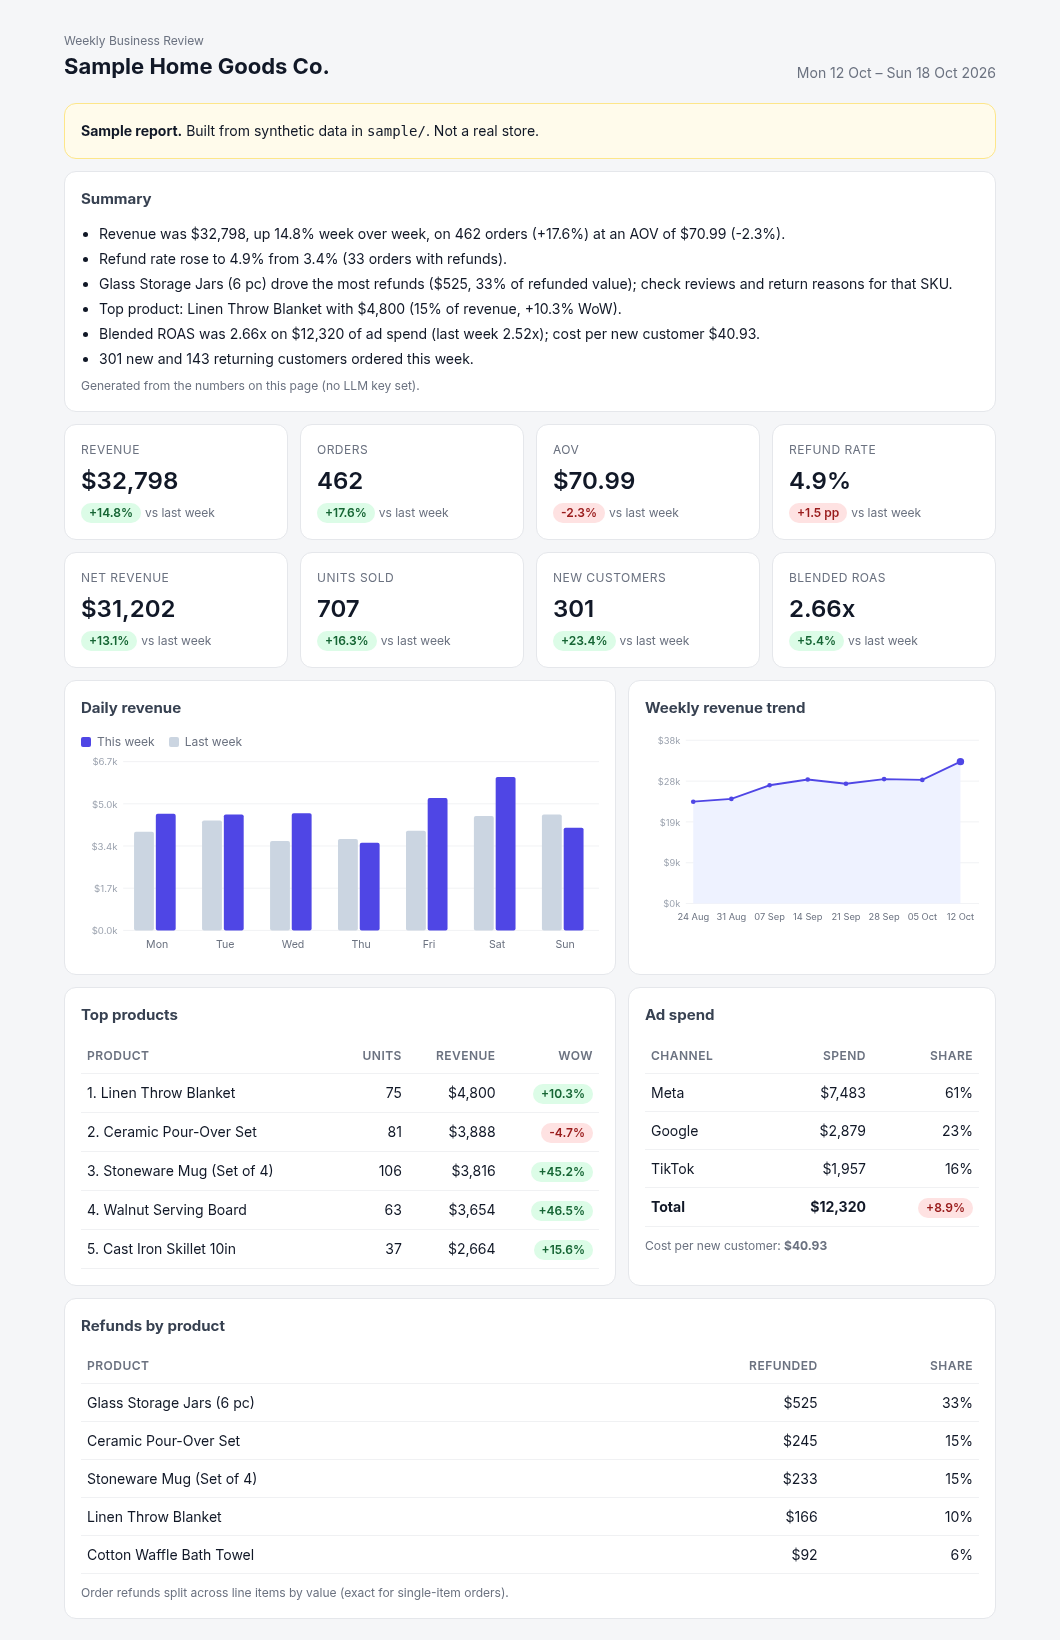
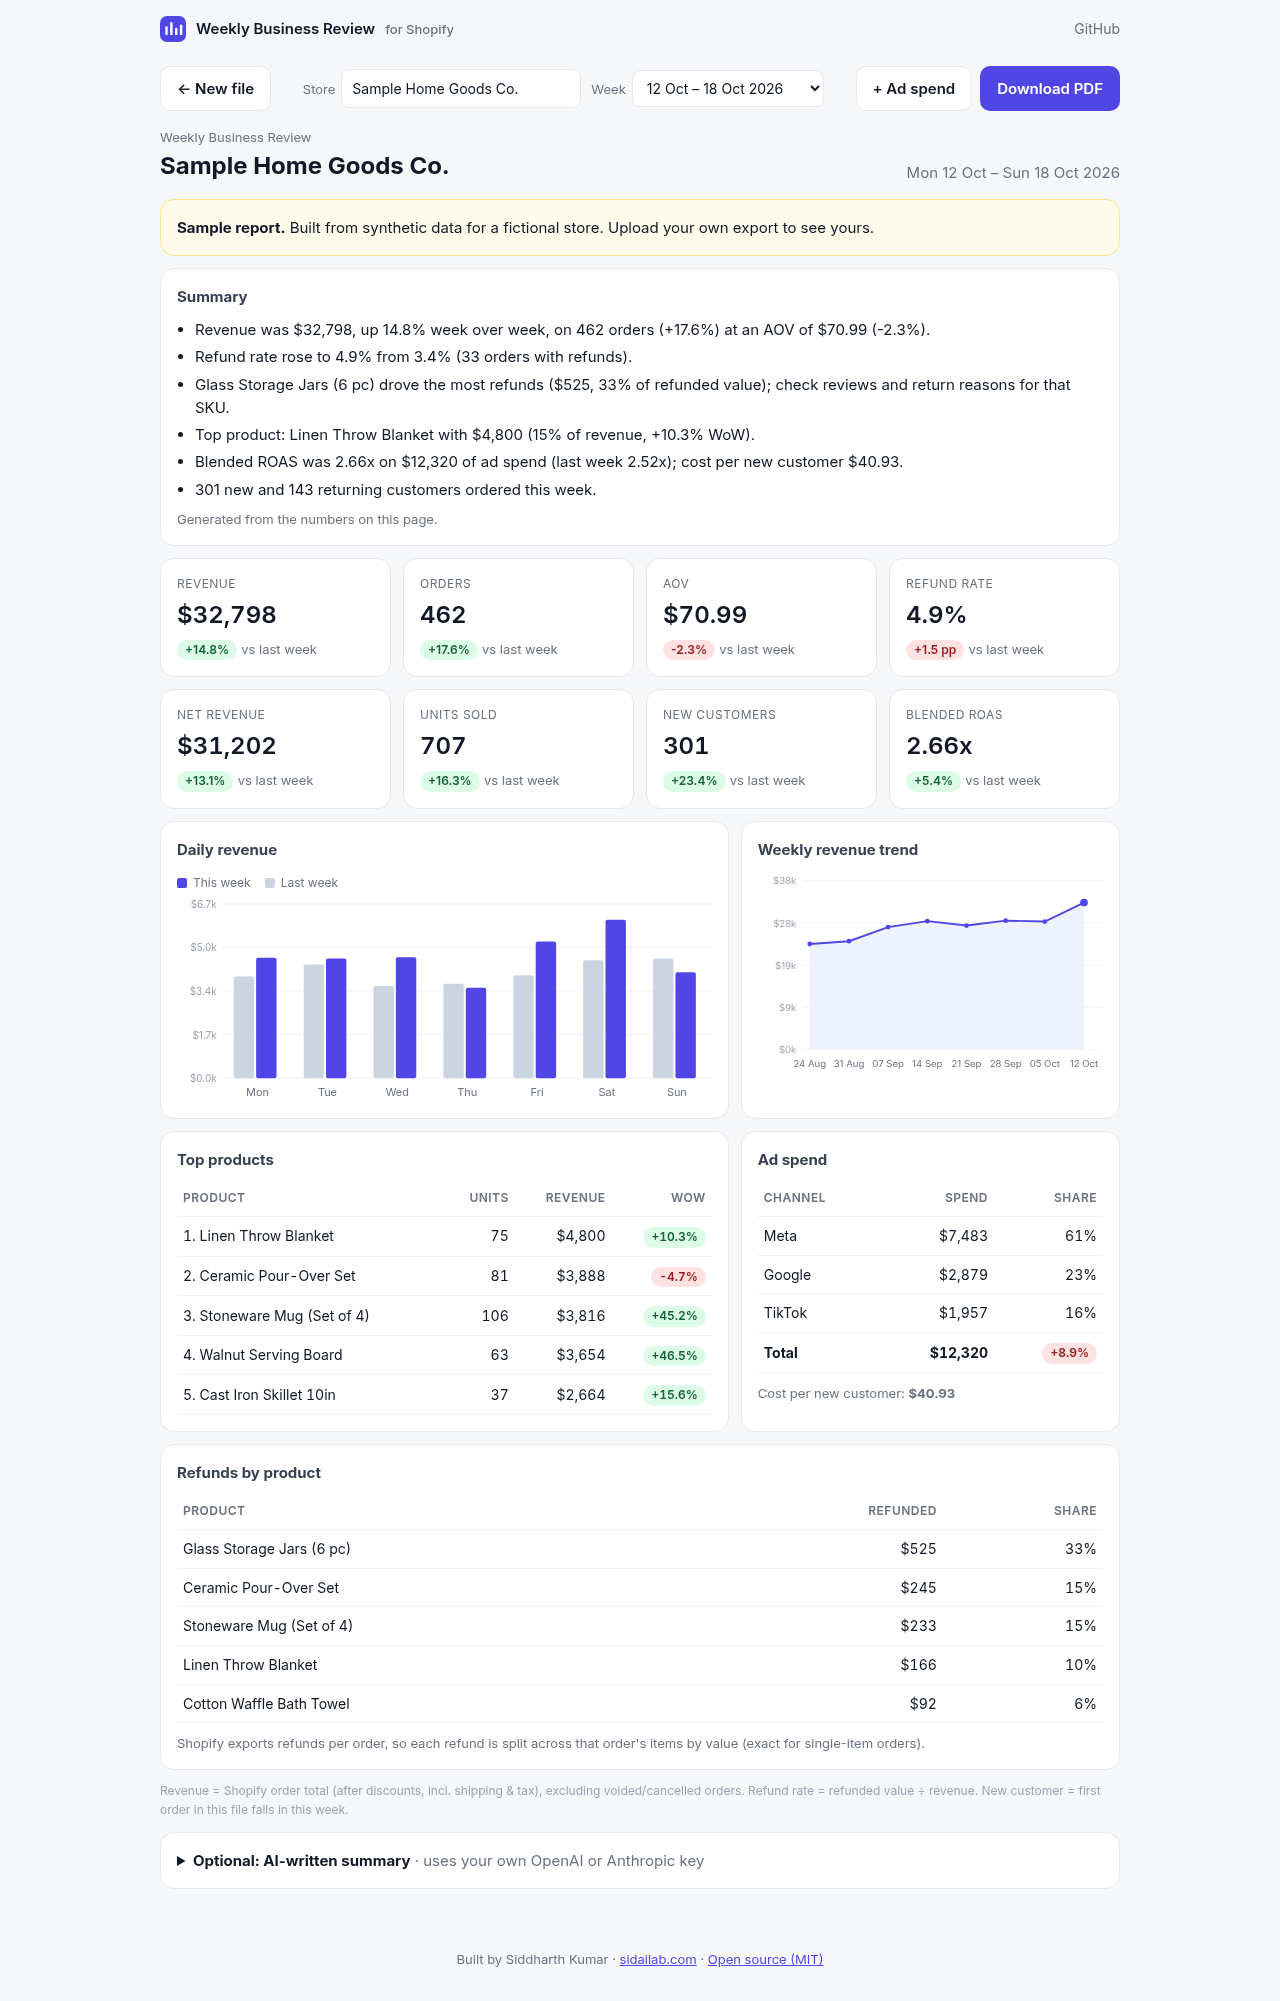
Deploy to GitHub Pages; rewrite README around the live app

diff --git a/README.md b/README.md
@@ -1,105 +1,88 @@
-# shopify-wbr
+# Shopify Weekly Business Review
 
-**Turn a Shopify orders export into a weekly business review in one command.**
+**Drop in your Shopify orders export, get a weekly business review in seconds. Free, no sign-up, and nothing leaves your browser.**
 
-Every Monday someone on an ecommerce team pulls the orders CSV, pastes it into a spreadsheet, and rebuilds the same deck: revenue, orders, AOV, refunds, top products, week-over-week. `shopify-wbr` does that in about a second and gives you a clean, shareable HTML or PDF report. Set an OpenAI or Anthropic key and it also writes the executive summary.
+### 👉 [Open the app: madebysid.github.io/shopify-wbr](https://madebysid.github.io/shopify-wbr/)
 
-![Sample weekly business review](docs/screenshot.png)
+No install, no login, no API keys. Click **Try with sample data** to see a full report straight away.
 
-*Sample report generated from the synthetic data in [`sample/`](sample/). Not a real store. Open the [HTML](docs/sample_report.html) or [PDF](docs/sample_report.pdf).*
+![Demo: upload, then the report renders in the page](docs/demo.gif)
+
+## How to use
+
+1. **Export your orders.** In Shopify admin go to **Orders → Export**, pick a date range covering at least the last two weeks (8 weeks gives the full trend), choose **CSV for Excel, Numbers, or other spreadsheet programs**, and click **Export orders**.
+2. **Open [the app](https://madebysid.github.io/shopify-wbr/) and drop the CSV in.** You can optionally add an ad spend CSV with `date,channel,spend` columns ([template](site/sample/ad_spend_template.csv)) to get ROAS and cost per new customer.
+3. **Read, then share.** Switch weeks from the dropdown and click **Download PDF** to save or send it.
 
 ## What's in the report
 
-- **Revenue, orders, AOV, net revenue, units, refund rate**, each with week-over-week change
-- **Daily revenue** this week vs last week, and an **8-week trend**
-- **Top products** by revenue, with WoW change per product
-- **Refunds by product**, so you can see which SKU is behind a refund spike
-- **New vs returning customers**
-- **Ad spend by channel, blended ROAS and cost per new customer** (if you pass an ad spend CSV)
-- **Executive summary**: written by an LLM if a key is set, otherwise generated from rules. The report always builds, key or no key.
+- Revenue, orders, AOV, net revenue, units, refund rate and new customers, each with week-over-week change
+- Daily revenue this week vs last week, and an 8-week revenue trend
+- Top products, with each product's WoW change
+- Refunds by product, to see which SKU is behind a refund spike
+- Ad spend by channel, blended ROAS and cost per new customer (if you add ad spend)
+- A written summary of what changed. Optionally, an AI-written version using your own OpenAI or Anthropic key.
 
-## Quick start
+![Full sample report](docs/screenshot.png)
 
-```bash
-git clone https://github.com/madebysid/shopify-wbr.git
-cd shopify-wbr
-pip install -e .
+*The sample report uses synthetic data for a fictional store, not a real business.*
 
-# try it on the synthetic sample data
-wbr sample/orders_sample.csv --ads sample/ad_spend_sample.csv --store "Sample Home Goods Co." --pdf
-open wbr.html   # or wbr.pdf
-```
+## Privacy
 
-Python 3.10+ and no third-party dependencies. PDF export uses your local Chrome or Chromium (set `WBR_CHROME` if it isn't found automatically).
-
-## Use it on your store
-
-1. In Shopify admin go to **Orders → Export**, choose a date range covering at least the last two weeks, and export as **CSV for Excel, Numbers, or other spreadsheet programs**.
-2. Optionally make an ad spend CSV (export from Meta/Google/TikTok, or keep a sheet):
-
-   ```csv
-   date,channel,spend
-   2026-10-12,Meta,1050.00
-   2026-10-12,Google,410.00
-   ```
-3. Run:
-
-   ```bash
-   wbr orders_export.csv --ads ad_spend.csv --store "Your Store" --currency "$" -o reports/wbr.html --pdf
-   ```
-
-By default the report covers the **last complete Monday–Sunday week** in the file. Use `--week-ending 2026-10-11` to pick another week.
-
-## LLM summary (optional)
-
-```bash
-export OPENAI_API_KEY=sk-...        # or
-export ANTHROPIC_API_KEY=sk-ant-...
-export WBR_MODEL=gpt-4o-mini        # optional model override
-wbr orders_export.csv
-```
-
-Only aggregated numbers from the report are sent to the model (totals, WoW changes, top product names). No customer emails or order rows leave your machine. If the call fails, the tool falls back to the rule-based summary. Use `--no-llm` to never call a model.
-
-## Options
-
-| Flag | Default | |
-|---|---|---|
-| `--ads FILE` | | ad spend CSV (`date,channel,spend`) |
-| `-o, --out FILE` | `wbr.html` | output path |
-| `--pdf` | off | also write a PDF next to the HTML |
-| `--week-ending DATE` | last complete week | Sunday that ends the reported week |
-| `--store NAME` | `My Store` | store name in the header |
-| `--currency SYM` | `$` | currency symbol |
-| `--top N` | `5` | number of top products |
-| `--no-llm` | off | skip the LLM even if a key is set |
+- The app is a static page. Your CSV is read and processed **in your browser tab only**. There's no server, no upload, no analytics and no cookies.
+- The AI summary is off unless you paste your own API key. The key stays in the tab's memory (it isn't saved), and only the aggregated numbers shown on the page are sent to the provider you pick. No customer emails or order rows are sent.
 
 ## How metrics are defined
 
-- **Revenue**: Shopify order `Total` (after discounts, including shipping and tax), excluding voided and cancelled orders.
-- **Net revenue**: revenue minus `Refunded Amount`.
-- **AOV**: revenue / orders.
-- **Refund rate**: refunded value / revenue, shown as a percentage-point change WoW.
+- **Revenue**: Shopify order `Total` (after discounts, including shipping and tax), excluding voided and cancelled orders. **Net revenue** subtracts `Refunded Amount`.
+- **AOV**: revenue / orders. **Refund rate**: refunded value / revenue, with the WoW change in percentage points.
 - **New customer**: an email whose first order in the file falls in the reported week. Export more history for a more accurate split.
-- **Refunds by product**: Shopify's export only has the refund per order, so it's split across line items by value. This is exact for single-item orders.
+- **Refunds by product**: Shopify exports refunds per order, so each refund is split across that order's items by value. This is exact for single-item orders.
 - **Blended ROAS**: revenue / total ad spend. **Cost per new customer**: ad spend / new customers.
+- Weeks run Monday to Sunday. The report defaults to the last complete week in the file.
 
-## Sample data
+---
 
-[`sample/`](sample/) contains **synthetic** data for a fictional home goods store: 8 weeks, about 3,000 orders, `example.com` emails, generated by [`scripts/generate_sample_data.py`](scripts/generate_sample_data.py) with a fixed seed. The last week includes a promo push and a refund spike on one SKU, so the report has something to say.
+## For developers
 
-## Development
+The web app is plain HTML, CSS and JavaScript (ES modules) with no build step and no dependencies.
+
+```
+site/            the web app (deployed to GitHub Pages)
+  index.html     landing page and report view
+  app.js         UI, charts, file handling
+  wbr.js         CSV parsing, metrics, summaries (pure functions, shared with tests)
+  sample/        synthetic sample data
+test/            JS tests (node:test)
+cli/             Python command-line version (same metrics)
+```
+
+Run locally:
 
 ```bash
-pip install -e . -r requirements-dev.txt
-pytest
+git clone https://github.com/madebysid/shopify-wbr.git && cd shopify-wbr
+npm run serve        # http://localhost:8000
+npm test             # JS metric tests (Node 20+)
 ```
+
+### Command-line version
+
+If you'd rather script it, for example a Monday cron job that emails the PDF, there's a Python CLI with the same metrics in [`cli/`](cli/):
+
+```bash
+cd cli && pip install -e .
+wbr ../site/sample/orders_sample.csv --ads ../site/sample/ad_spend_sample.csv --pdf
+```
+
+See [cli/README.md](cli/README.md) for options. Tests: `cd cli && pip install -r requirements-dev.txt && pytest`.
+
+Sample data is generated by [`cli/scripts/generate_sample_data.py`](cli/scripts/generate_sample_data.py) with a fixed seed. The last week includes a promo push and a refund spike on one SKU, so the report has something to say.
 
 ## Why I built this
 
 I work in ecommerce: first at Amazon on the Global Store in MENA, and now as Technical Director at EcomVest, where I build the internal systems for around 50 Shopify stores. One of those systems turns the P&L into weekly and monthly business review decks automatically. This is a small, generic, open-source take on the same idea. It shares no code or data with that system.
 
-More at [sidailab.com](https://sidailab.com).
+Built by **Siddharth Kumar** · [sidailab.com](https://sidailab.com) · [LinkedIn](https://www.linkedin.com/in/sidkmr)
 
 ## License
 
